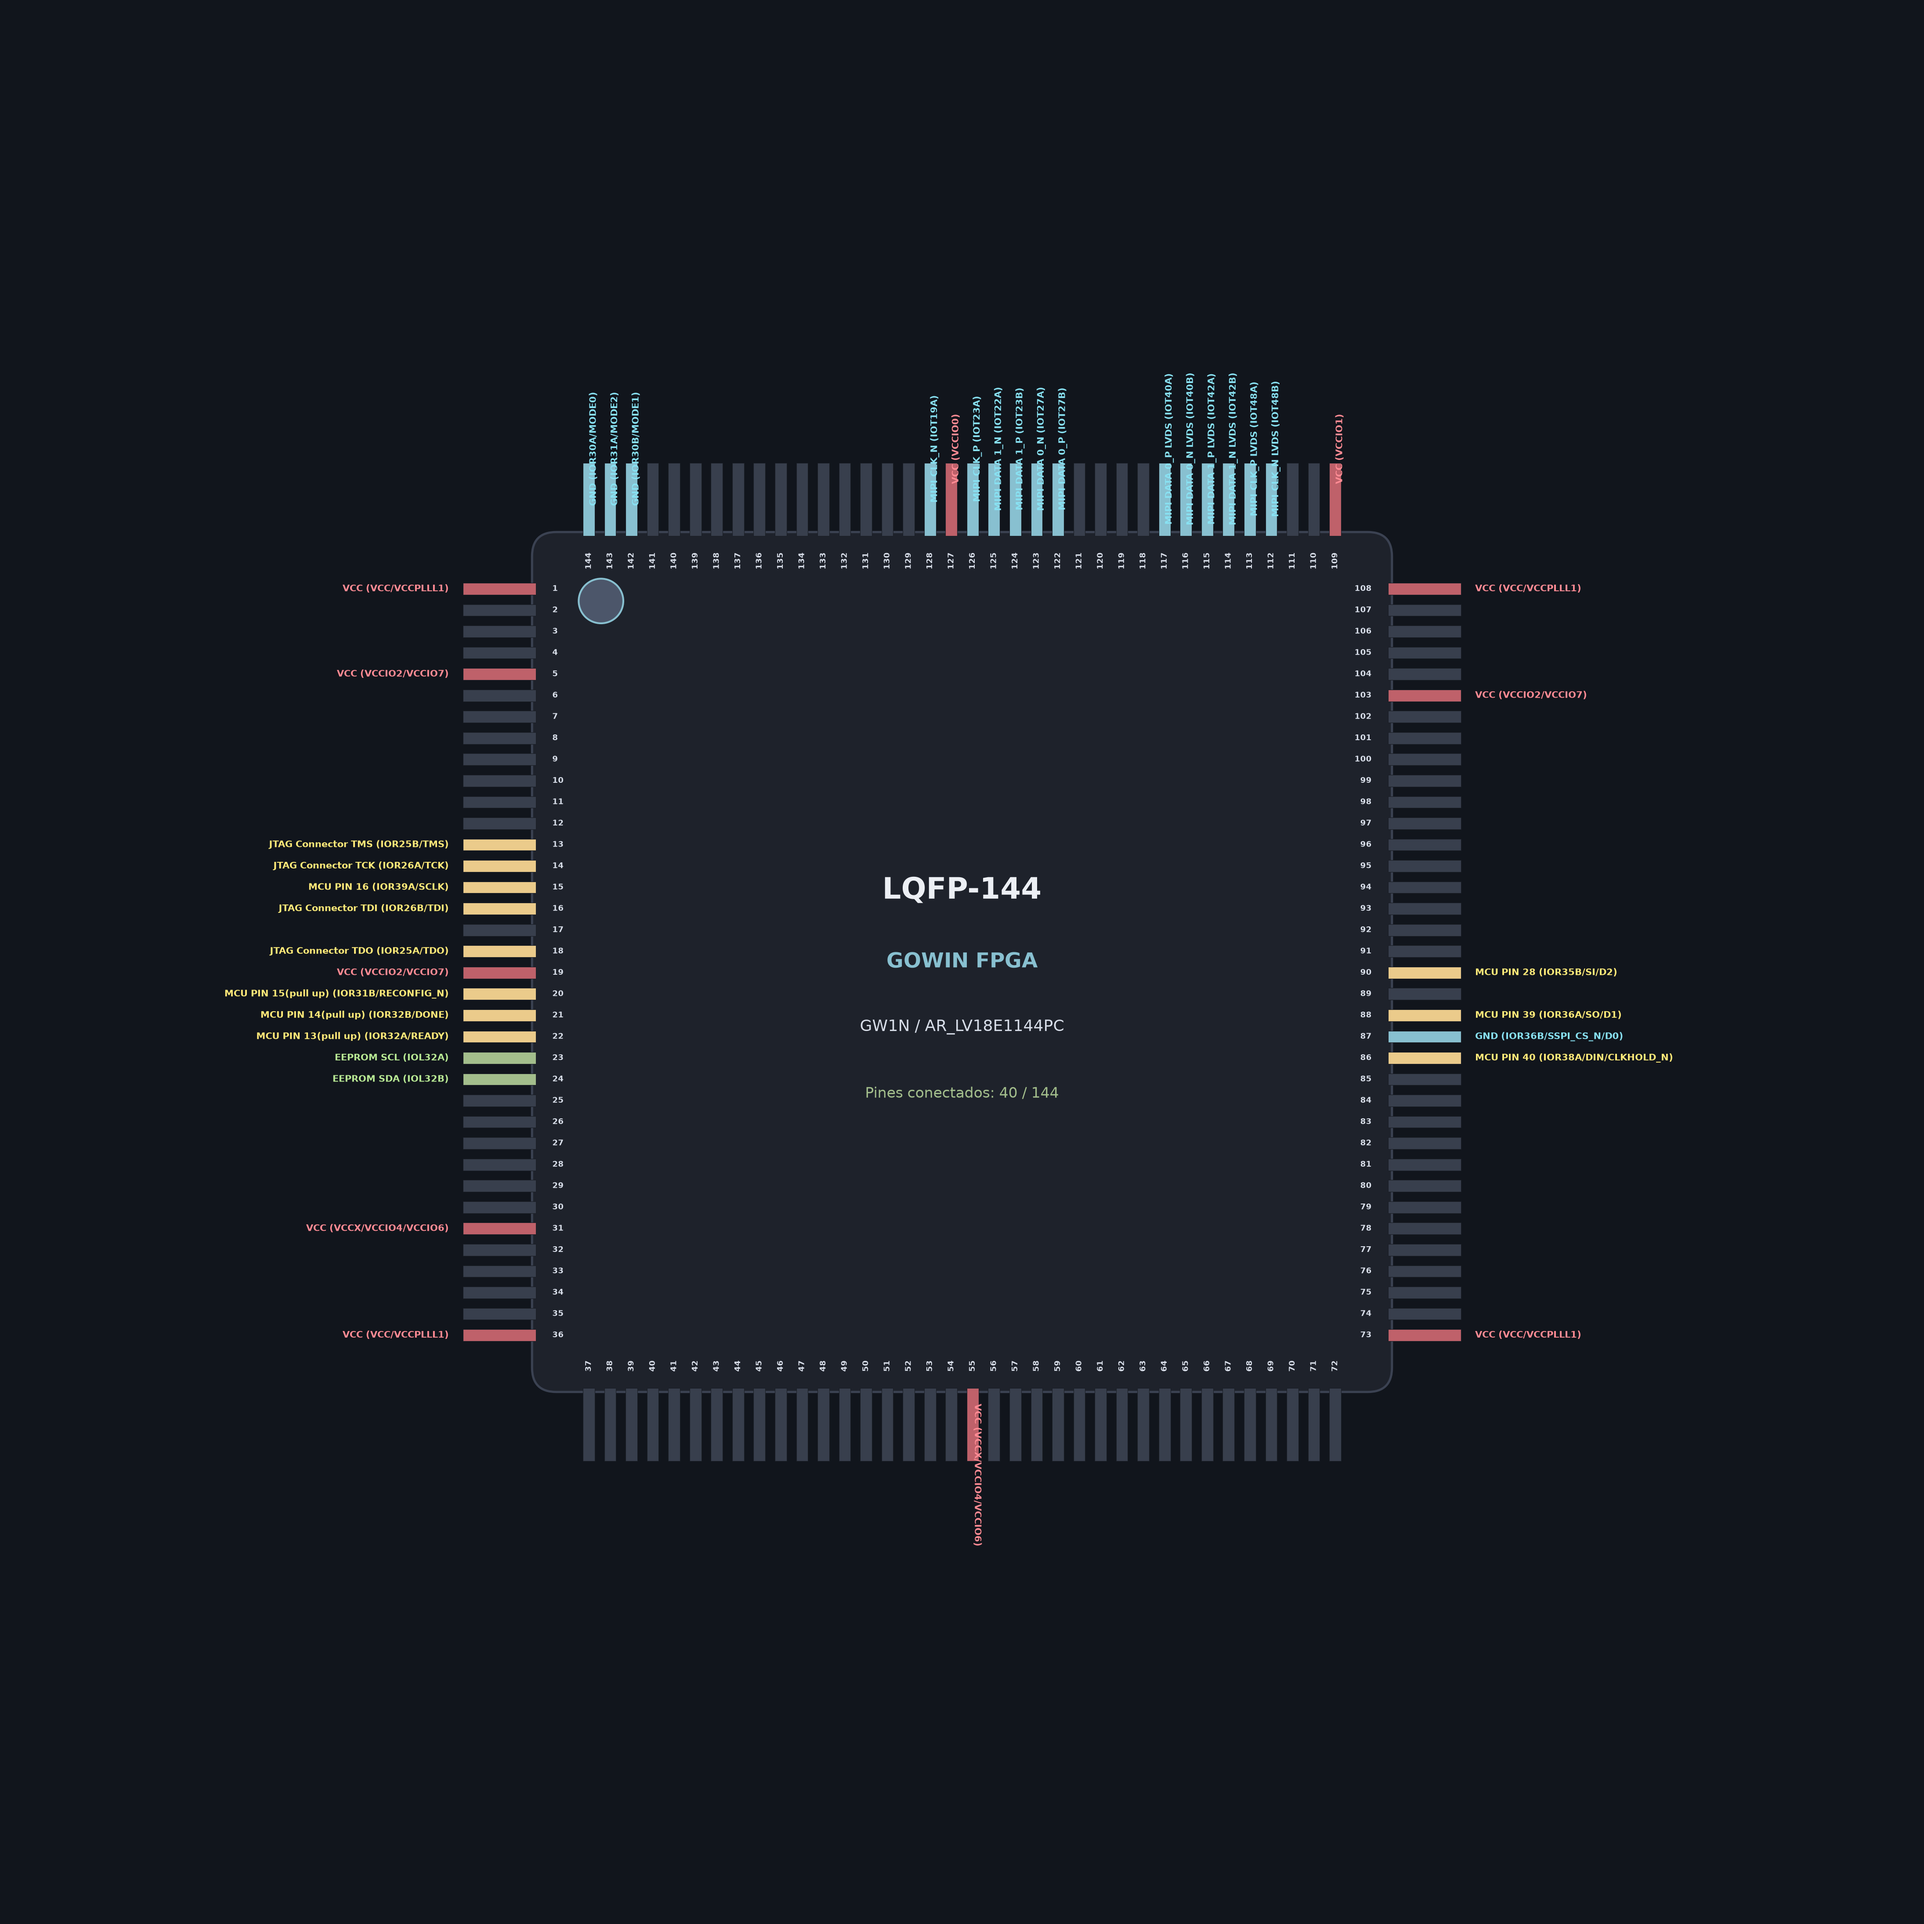
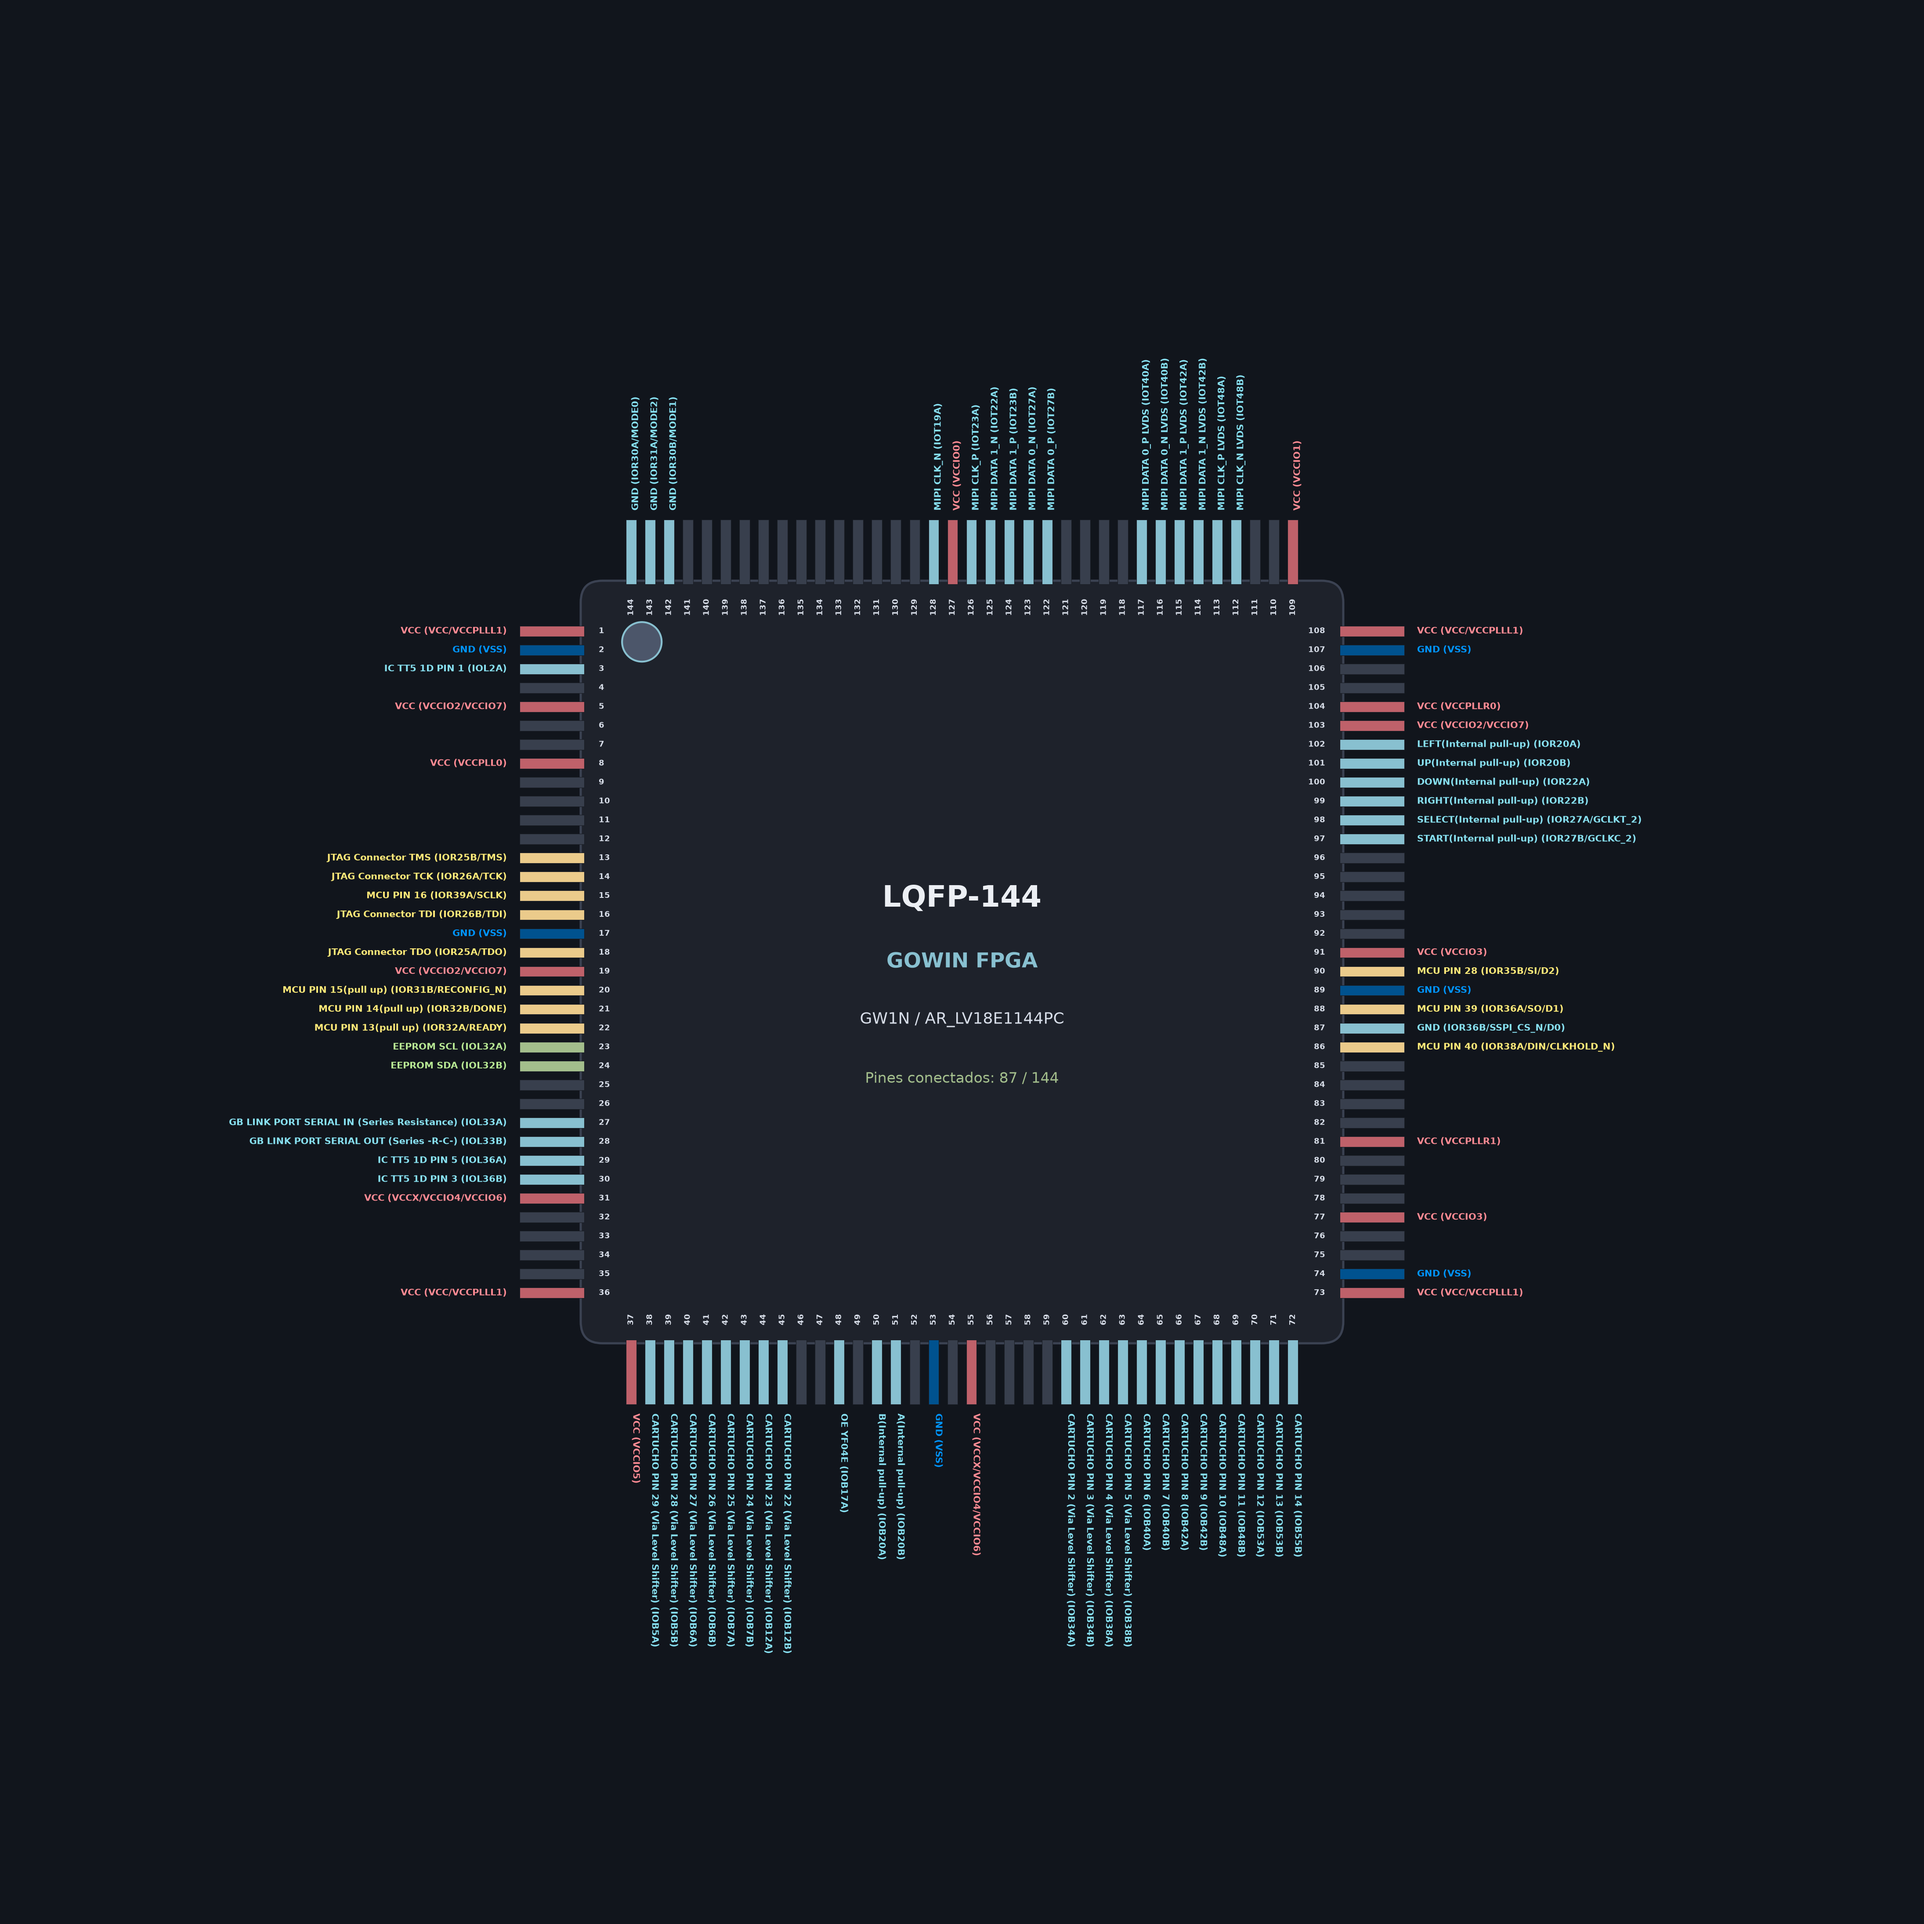
Se añaden pines hacia el cartucho

diff --git a/identified_pins/lqfp144_visualize.py b/identified_pins/lqfp144_visualize.py
@@ -76,9 +76,12 @@ def plot_lqfp144(csv_path="gowin_ar_lv18e1144pc.csv", output_path="lqfp144_pinou
             name_lower = info['name'].lower()
             conn_lower = info['conn'].lower()
 
-            if 'power' in func or 'vcc' in name_lower or 'gnd' in name_lower:
+            if 'power' in func:
                 lead_color = '#bf616a'    # Rojo / Coral (Alimentación)
                 label_color = '#ff8b94'
+            elif 'ground' in func :
+                lead_color = '#00528F'
+                label_color = '#0095FF'
             elif 'jtag' in conn_lower or 'mcu' in conn_lower or any(j in name_lower for j in ['tms', 'tck', 'tdi', 'tdo']):
                 lead_color = '#ebcb8b'    # Amarillo (JTAG)
                 label_color = '#ffea79'
@@ -119,8 +122,8 @@ def plot_lqfp144(csv_path="gowin_ar_lv18e1144pc.csv", output_path="lqfp144_pinou
             ax.add_patch(lead)
             ax.text(x, y_body + 0.8, str(pin_num), color='#d8dee9', fontsize=6.5, ha='center', va='bottom', fontweight='bold', rotation=90, zorder=4)
             if is_conn:
-                ax.text(x, y_body - lead_length - 0.7, label, color=label_color, fontsize=7.5,
-                        fontweight='bold', ha='left', va='center', rotation=-90, zorder=4)
+                ax.text(x, y_body - lead_length - 0.5, label, color=label_color, fontsize=7.5,
+                        fontweight='bold', ha='left', va='top', rotation=-90, zorder=4)
 
         # --- LADO DERECHO: Pines 73 a 108 (abajo -> arriba) ---
         elif 73 <= pin_num <= 108:
@@ -145,11 +148,11 @@ def plot_lqfp144(csv_path="gowin_ar_lv18e1144pc.csv", output_path="lqfp144_pinou
             ax.add_patch(lead)
             ax.text(x, y_body - 0.8, str(pin_num), color='#d8dee9', fontsize=6.5, ha='center', va='top', fontweight='bold', rotation=90, zorder=4)
             if is_conn:
-                ax.text(x, y_body + lead_length + 0.7, label, color=label_color, fontsize=7.5,
-                        fontweight='bold', ha='left', va='center', rotation=90, zorder=4)
+                ax.text(x, y_body + lead_length + 0.5, label, color=label_color, fontsize=7.5,
+                        fontweight='bold', ha='left', va='bottom', rotation=90, zorder=4)
 
     # 4. Ajustar márgenes y renderizado
-    margin = 26.0
+    margin = 32.0
     ax.set_xlim(-half_body - margin, half_body + margin)
     ax.set_ylim(-half_body - margin, half_body + margin)
     ax.set_aspect('equal')

diff --git a/identified_pins/chips.md b/identified_pins/chips.md
@@ -4,9 +4,9 @@
 
 ## HGSEMI 24C04C  https://www.microchip.com/en-us/product/at24c04c (placed)
 
-## LJ24SA TI 62K CJDC Level Shifter
+## LJ24SA TI 62K CJDC 8 Bit Level Shifter https://www.ti.com/lit/ds/symlink/sn74lvc8t245.pdf?ts=1790791035737&ref_url=https%253A%252F%252Fwww.ti.com%252Fproduct%252FSN74LVC8T245
 
-## YF04E TI 4AK AZD3 Level Shifter
+## YF04E TI 4AK AZD3 4 Bit Level Shifter https://www.ti.com/lit/ds/symlink/txb0104.pdf?ts=1790618362914&ref_url=https%253A%252F%252Fwww.ti.com%252Fproduct%252FTXB0104
 
 ## LPS LP28303A https://www.lowpowersemi.com/Product-detail/17-LP28303A?parent_id=17
 
